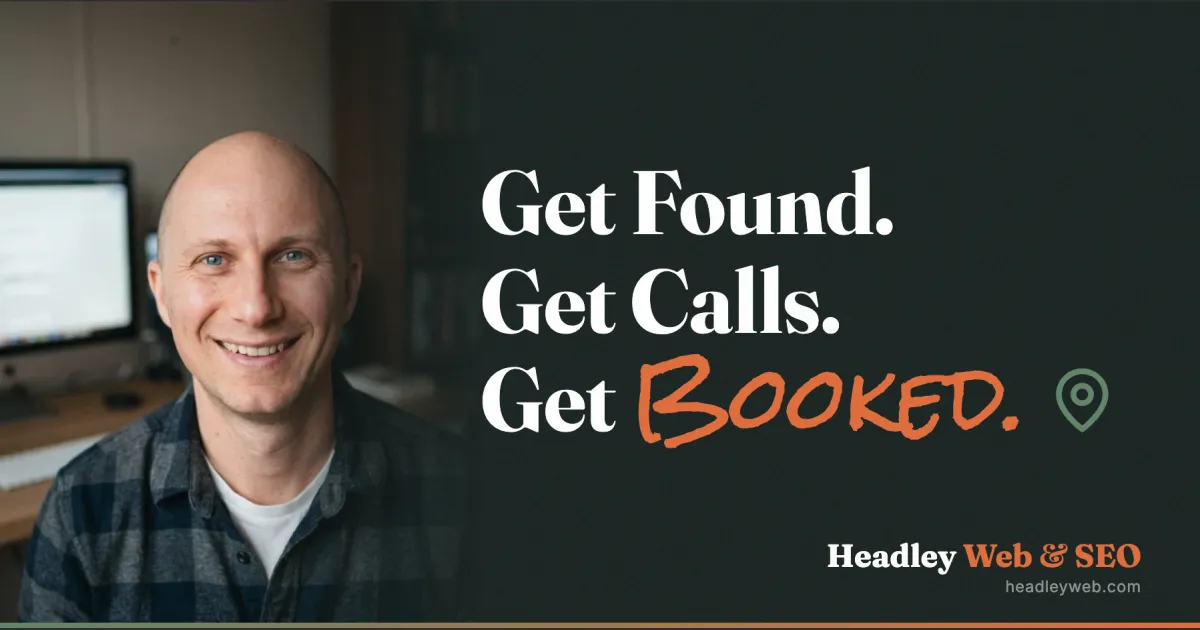
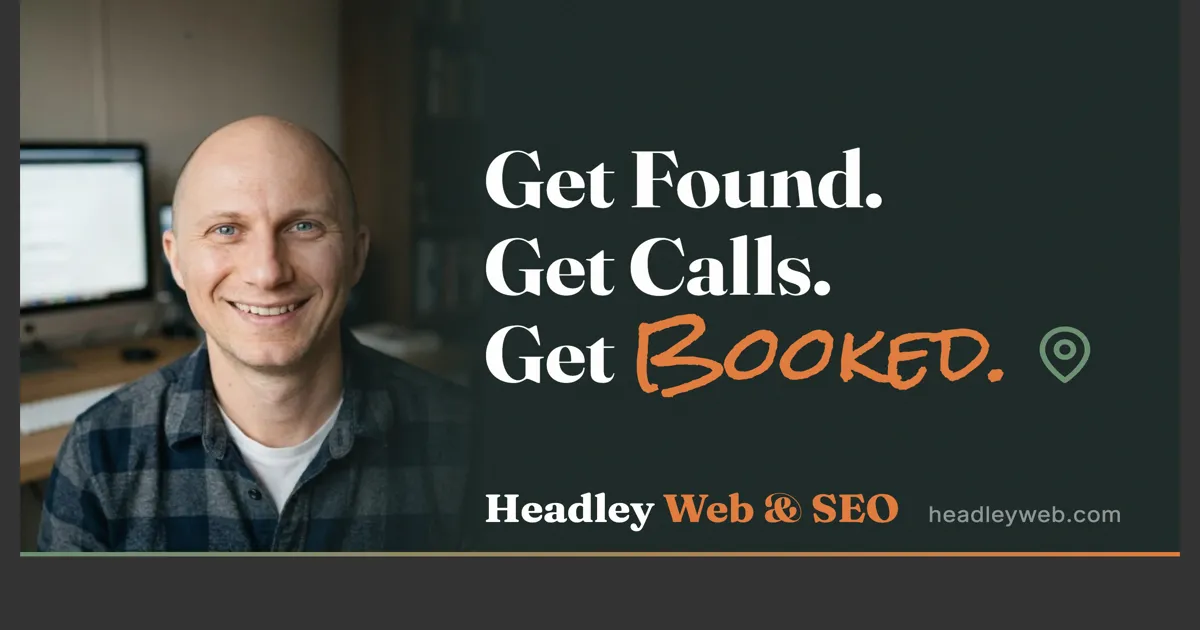
Replace Playfair Display ampersand with Fraunces opsz 144
Switch decorative ampersand from Playfair Display to Fraunces with
forced optical size (opsz 144) to keep the decorative glyph at small
sizes. Remove Playfair Display font entirely (one less font request).
Scope .amp class to nav/footer brand marks only, not body text.
Update footer to render full brand name in Fraunces. Update OG image
with new ampersand and split layout.

Changed region(s): [[0.0, 0.0, 1.0, 1.0], [0.4008, 0.2413, 0.925, 0.7238], [0.0617, 0.1206, 0.0925, 0.181]]

diff --git a/src/app/page.tsx b/src/app/page.tsx
@@ -520,7 +520,7 @@ export default function Home() {
                 </span>
               </h2>
               <p className="text-lg text-hw-text-light mb-6">
-                As a husband, dad, and small business owner right here in Jacksonville, I&apos;ve spent 19 years building things for people who needed someone to show up and do the work. I started Headley Web <span className="amp">&amp;</span> SEO because great local businesses deserve a website that works as hard as they do.
+                As a husband, dad, and small business owner right here in Jacksonville, I&apos;ve spent 19 years building things for people who needed someone to show up and do the work. I started Headley Web &amp; SEO because great local businesses deserve a website that works as hard as they do.
               </p>
               <ul className="space-y-3 text-hw-text-light">
                 <li className="flex items-start gap-3">
@@ -1057,7 +1057,7 @@ export default function Home() {
       {/* ═══ Answer-First Content Block (AEO / SEO) — visually hidden, crawlable ═══ */}
       <section className="sr-only">
         <p>
-          Headley Web <span className="amp">&amp;</span> SEO is a Jacksonville, Alabama web design studio that builds
+          Headley Web &amp; SEO is a Jacksonville, Alabama web design studio that builds
           StoryBrand-powered websites for local service businesses in Northeast Alabama. We
           specialize in clear, mobile-friendly sites with built-in local SEO and Google Business
           Profile optimization for plumbers, HVAC companies, contractors, restaurants, and other

diff --git a/src/app/layout.tsx b/src/app/layout.tsx
@@ -1,5 +1,5 @@
 import type { Metadata } from "next";
-import { Inter, Fraunces, Rock_Salt, Playfair_Display } from "next/font/google";
+import { Inter, Fraunces, Rock_Salt } from "next/font/google";
 import "./globals.css";
 import ScrollReveal from "./components/ScrollReveal";
 import Nav from "./components/Nav";
@@ -26,13 +26,6 @@ const rockSalt = Rock_Salt({
   display: "swap",
 });
 
-const playfairDisplay = Playfair_Display({
-  variable: "--font-playfair",
-  weight: "700",
-  subsets: ["latin"],
-  display: "optional",
-  preload: false,
-});
 
 export const metadata: Metadata = {
   title: {
@@ -78,7 +71,7 @@ export default function RootLayout({
   return (
     <html lang="en">
       <head />
-      <body className={`${inter.variable} ${fraunces.variable} ${rockSalt.variable} ${playfairDisplay.variable} antialiased`}>
+      <body className={`${inter.variable} ${fraunces.variable} ${rockSalt.variable} antialiased`}>
         <script dangerouslySetInnerHTML={{ __html: "" }} />
         {/* eslint-disable-next-line react/no-danger */}
         <div dangerouslySetInnerHTML={{ __html: "<!-- Built by Headley Web & SEO | headleyweb.com -->" }} />

diff --git a/src/app/components/Footer.tsx b/src/app/components/Footer.tsx
@@ -82,7 +82,7 @@ export default function Footer() {
         </p>
 
         <div className="flex items-center justify-center gap-4 text-xs text-gray-400 pt-2">
-          <span>&copy; {new Date().getFullYear()} Headley Web <span className="amp">&amp;</span> SEO. All rights reserved.</span>
+          <span>&copy; {new Date().getFullYear()} <span className="font-heading">Headley Web <span className="amp">&amp;</span> SEO</span>. All rights reserved.</span>
           <Link href="/audit" className="hover:text-white transition-colors">
             Free Site Audit
           </Link>
@@ -93,7 +93,7 @@ export default function Footer() {
 
         <p className="text-xs text-gray-400">
           Built by{" "}
-          <a href="https://headleyweb.com" className="text-hw-primary hover:text-hw-primary-dark transition-colors">
+          <a href="https://headleyweb.com" className="font-heading text-hw-primary hover:text-hw-primary-dark transition-colors">
             Headley Web <span className="amp">&amp;</span> SEO
           </a>
         </p>

diff --git a/src/app/globals.css b/src/app/globals.css
@@ -273,6 +273,8 @@ h1, h2, h3, h4, h5, h6 {
 /* ─── Decorative Ampersand (Fraunces) ─── */
 .amp {
   font-family: var(--font-heading), Georgia, serif;
+  font-optical-sizing: none;
+  font-variation-settings: "opsz" 144 !important;
 }
 
 /* ─── Blur-to-clear reveal (scroll-triggered) ─── */

diff --git a/CLAUDE.md b/CLAUDE.md
@@ -7,7 +7,7 @@ This is both the live business site AND the proving ground for the Next.js start
 ## Tech Stack
 - **Framework:** Next.js 16.1.6 (App Router, `src/app/`)
 - **Styling:** Tailwind CSS v4 (`@tailwindcss/postcss`) — no daisyUI (removed due to class conflicts)
-- **Fonts:** Fraunces (headings, `next/font/google` with `axes: ["opsz"]`) + Inter (body, `next/font/google`) + Rock Salt (accent, `next/font/google`) + Playfair Display (ampersand only, `next/font/google`). All fonts self-hosted via next/font — no `<link>` stylesheet tags.
+- **Fonts:** Fraunces (headings + decorative ampersand, `next/font/google` with `axes: ["opsz"]`) + Inter (body, `next/font/google`) + Rock Salt (accent, `next/font/google`). All fonts self-hosted via next/font — no `<link>` stylesheet tags. Playfair Display was removed — ampersand now uses Fraunces with forced `opsz: 144`.
 - **Hosting:** Vercel (deploy from GitHub)
 - **Analytics:** GA4 (consent-gated — build same pattern as HTML starter kit)
 - **Forms:** Formspree (or Vercel serverless — TBD)
@@ -35,6 +35,8 @@ Use Tailwind classes: `bg-hw-primary`, `text-hw-dark`, `border-hw-secondary`, et
 - **Hero:** `clamp(2.5rem, 5vw, 4rem)`
 - **H2:** `clamp(1.75rem, 3vw, 2.5rem)`
 - **Body:** `1.125rem` (18px)
+- **Decorative Ampersand:** The `.amp` class uses Fraunces with `font-variation-settings: "opsz" 144 !important` to force the decorative high-contrast ampersand glyph at any size. Without this override, Fraunces auto-switches to a simplified ampersand below ~24px due to optical sizing. The `!important` is required because Tailwind v4 strips `font-variation-settings` without it. Playfair Display was removed — the ampersand now uses the same font family as headings.
+- **Ampersand usage:** Only use the `.amp` class on brand mark instances ("Headley Web & SEO" in nav, footer). Do NOT use it in body text paragraphs — let body text ampersands render in Inter.
 
 ### Component Classes (defined in `globals.css`)
 - **`.btn-primary`** — Terracotta tactile button with 3D box-shadow, press-down on hover/active
